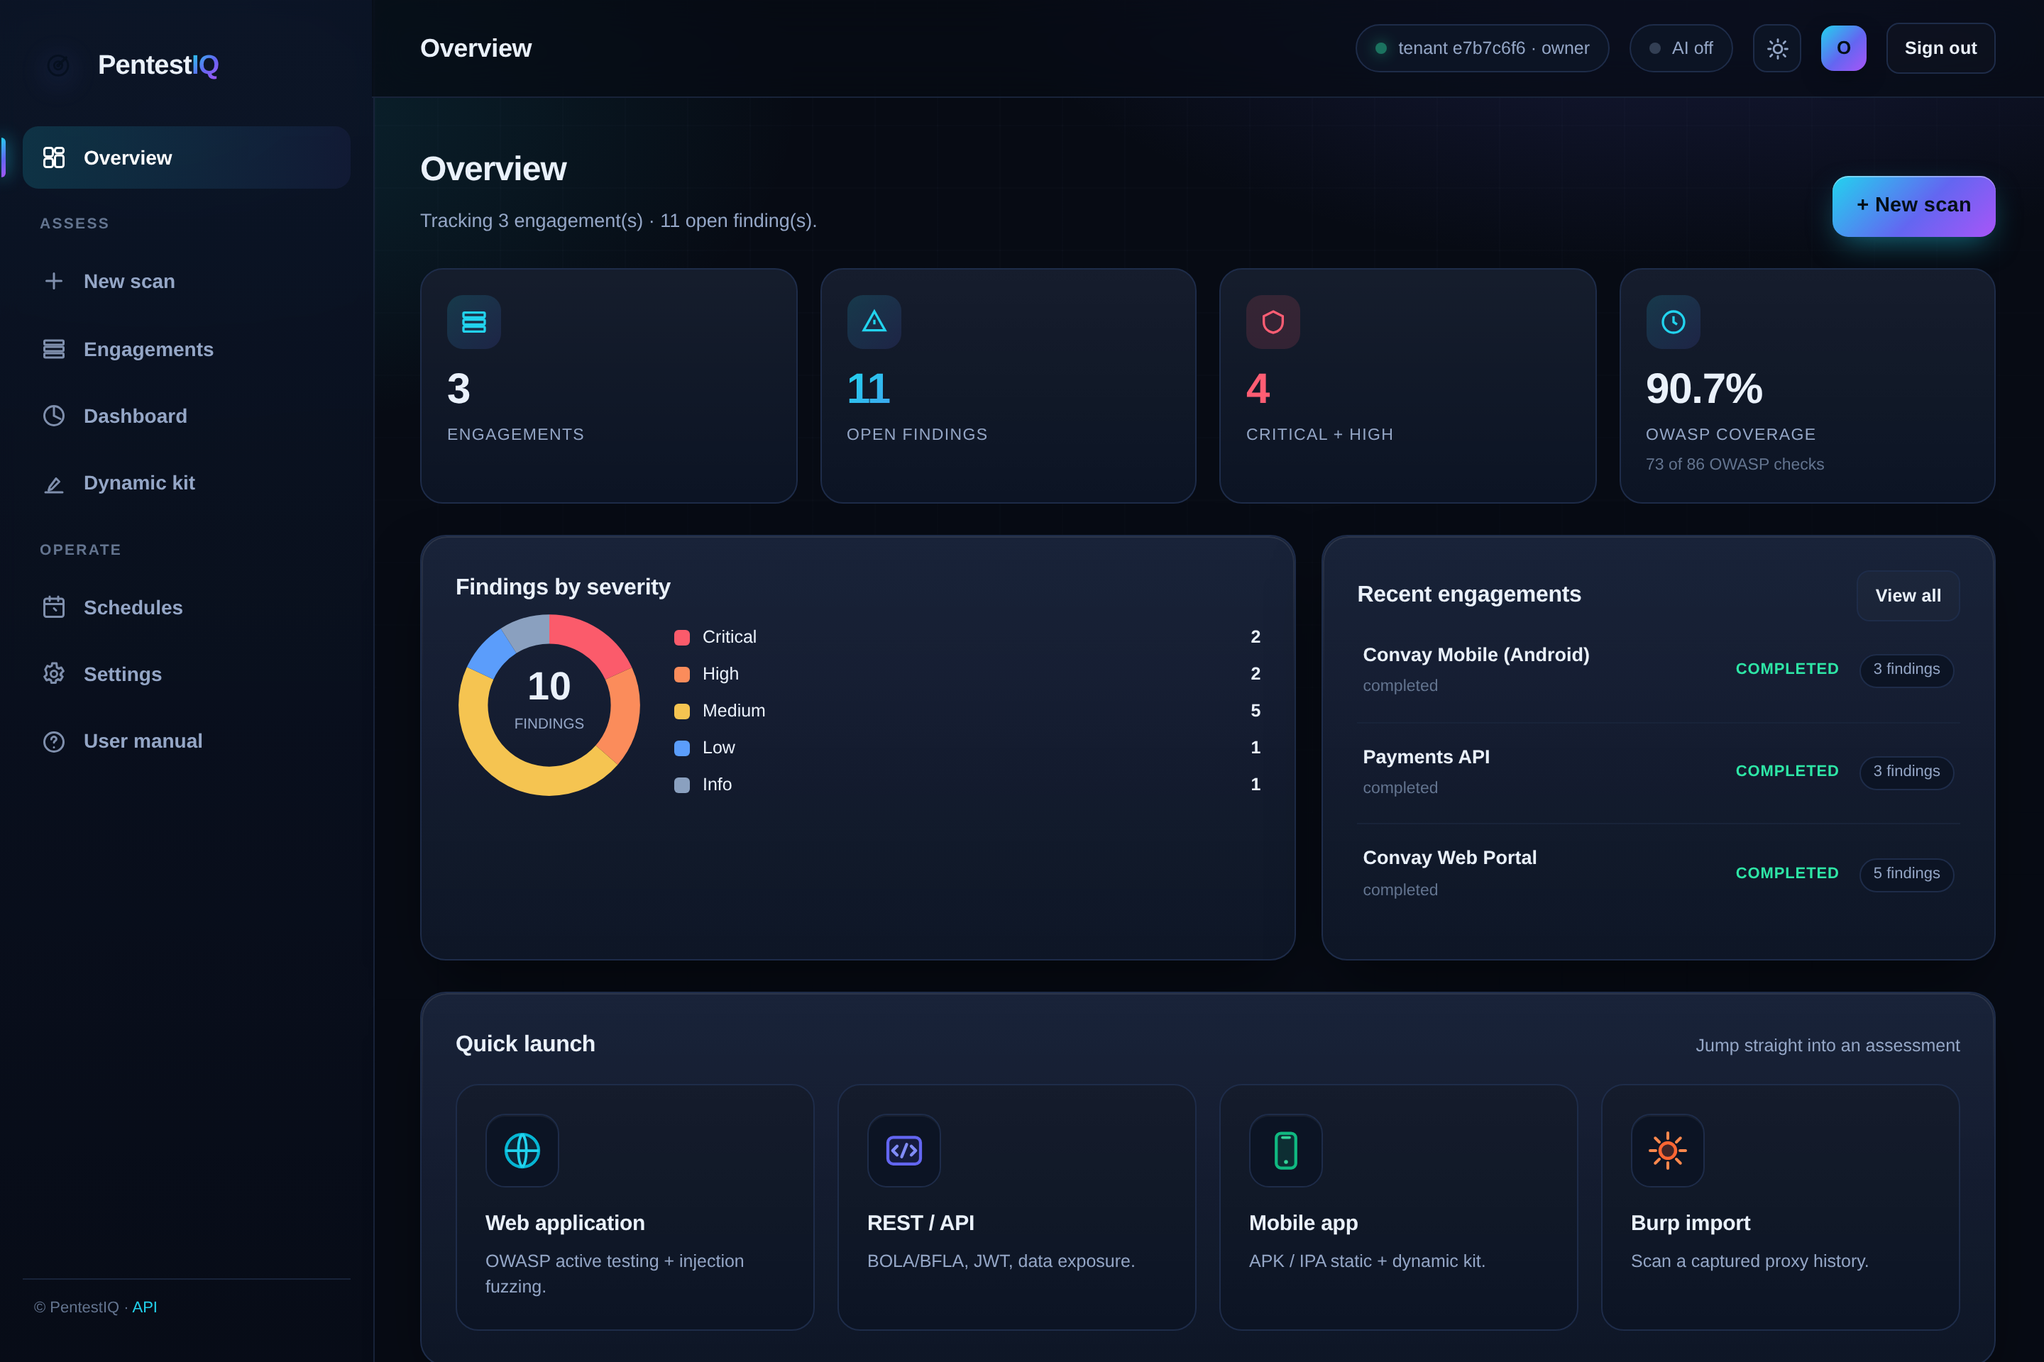
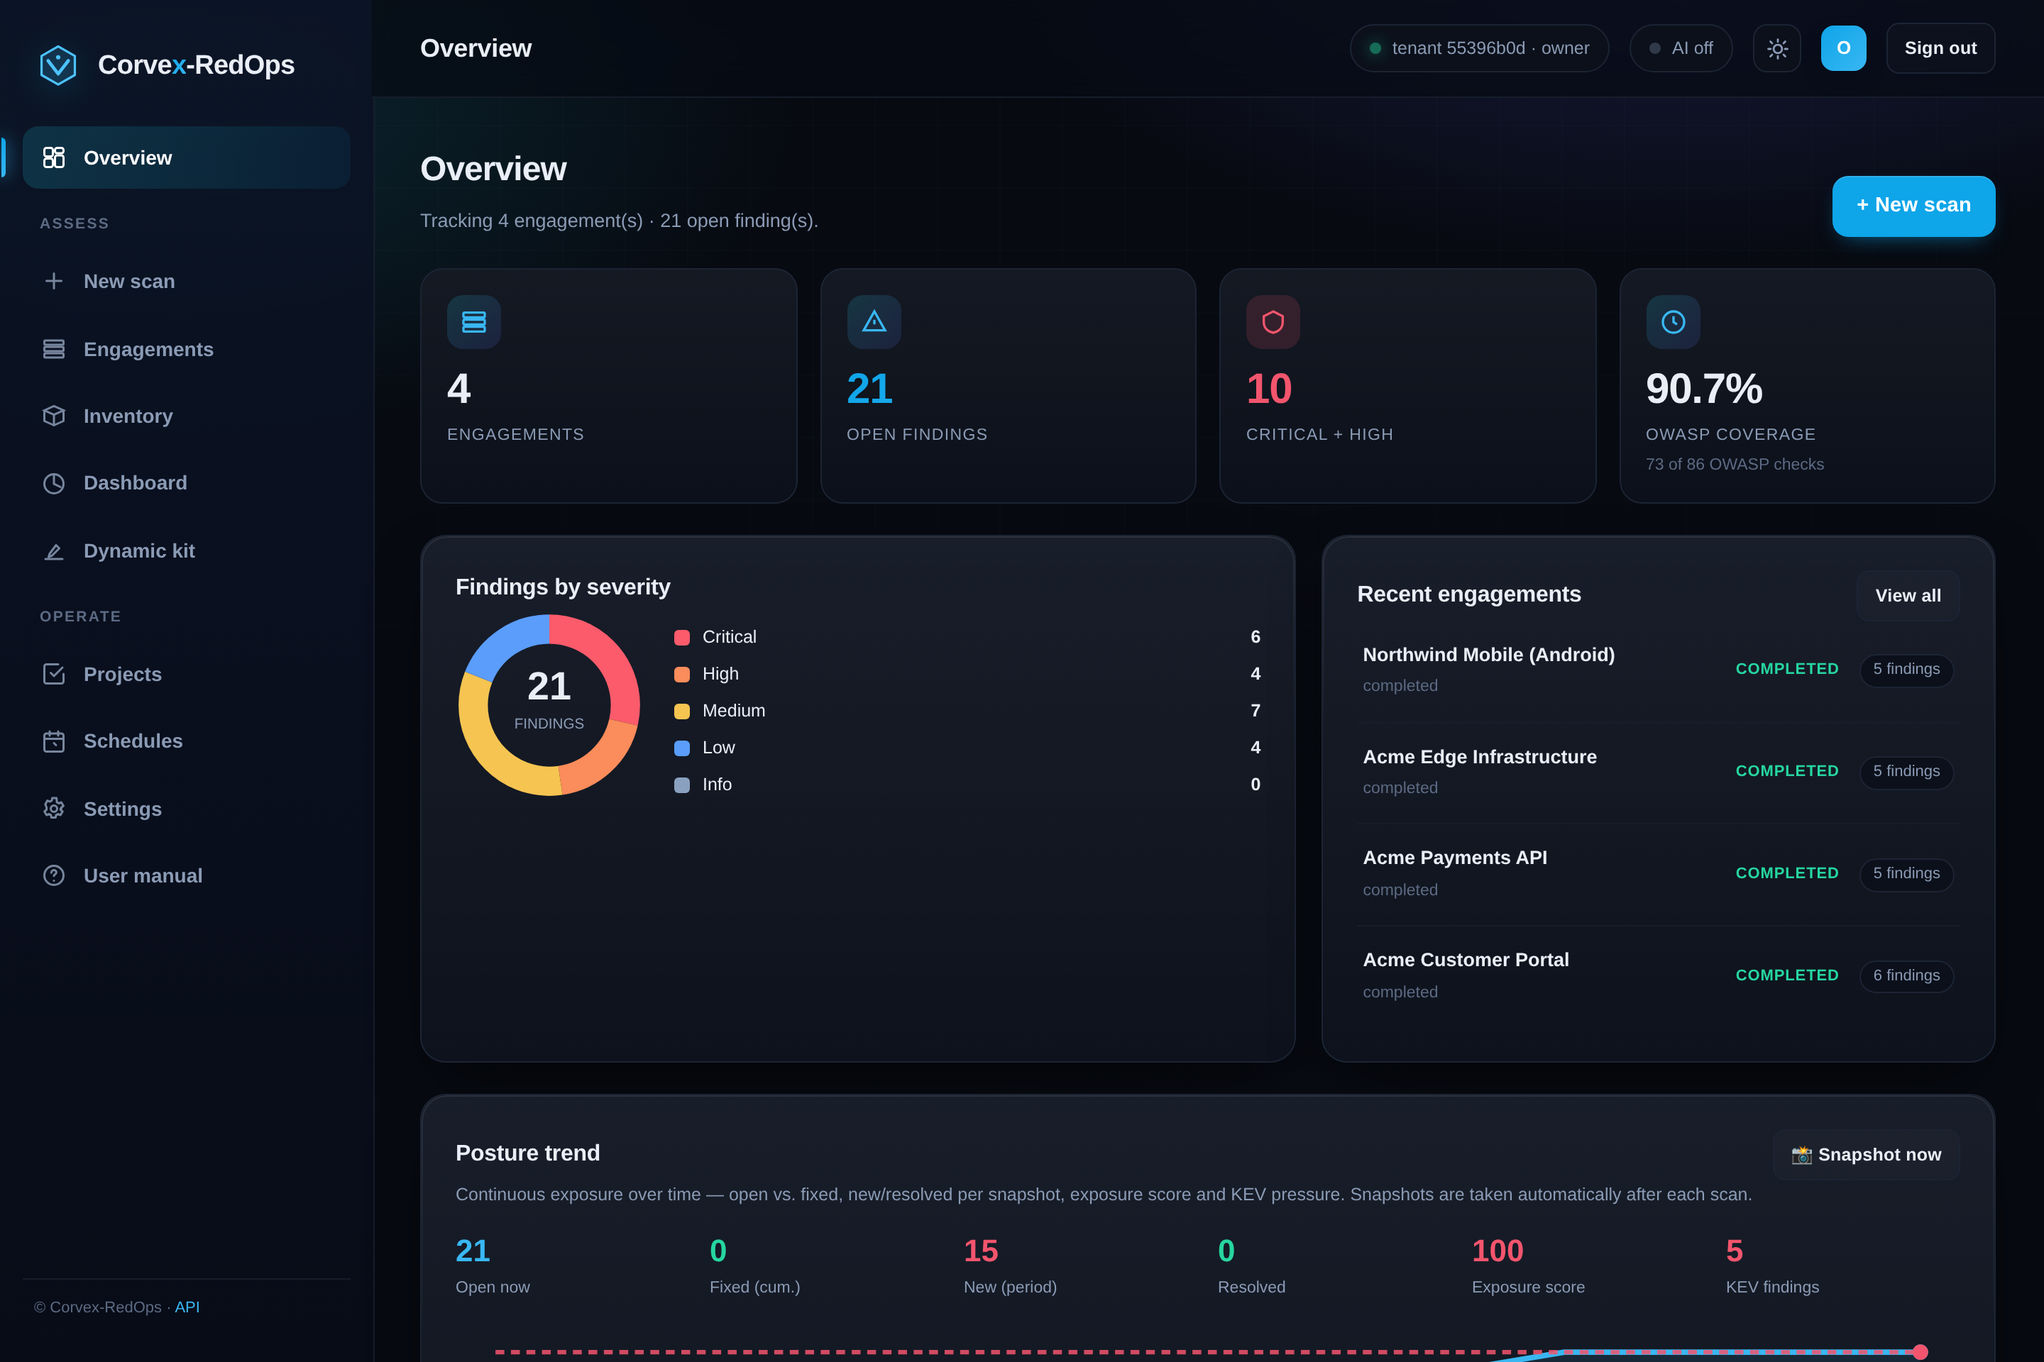
docs(readme): refresh screenshots and content for the current build
- All screenshots regenerated from the current console, seeded with
  fictional demo data only (Acme Corp / Northwind on reserved .example
  domains and TEST-NET-3). The previous images showed the old brand and a
  real client's engagement names.
- New screenshots: inventory, attack paths, posture trend.
- Features and Asset Coverage now cover inventory/EASM, CTEM, SCA/SBOM,
  SAST, secrets, container/IaC, CSPM, scan import, ATT&CK, attack paths,
  BAS-lite, retest, projects, ticketing, client portal and authenticated
  scanning.
- Fix three table-of-contents anchors broken by the rename; CLI examples use
  corvex; badges reflect 480+ tests and 18 scan templates; remove the CI
  badge until a workflow is committed; drop a competitor product name.
- Remove the remaining client name from a Dockerfile comment and a test
  fixture.

Claude-Session: https://claude.ai/code/session_01THvAKJj4x2A7GQA8GnZExA

diff --git a/tests/test_inventory.py b/tests/test_inventory.py
@@ -23,7 +23,7 @@ def test_normalize_url_to_host():
 def test_normalize_kinds():
     assert normalize("10.0.0.5")[1] == AssetKind.IP
     assert normalize("192.168.1.0/24")[1] == AssetKind.CIDR
-    assert normalize("/uploads/x/convay.apk", "mobile")[1] == AssetKind.APP
+    assert normalize("/uploads/x/sample-app.apk", "mobile")[1] == AssetKind.APP
     assert normalize("EXAMPLE.com")[0] == "example.com"
 
 

diff --git a/README.md b/README.md
@@ -4,23 +4,22 @@
 
 ### One platform for Vulnerability Assessment **and** Penetration Testing — every asset, one engine, client-ready in minutes.
 
-*Web · API · Mobile · Desktop · Infrastructure · Network devices · Firewalls · Hardening · WordPress · Active Directory — discovered, actively tested, **safely validated**, threat-prioritized, correlated, and reported. Self-hosted. AI-assisted. Zero licensing cost.*
+*Web · API · Mobile · Desktop · Infrastructure · Network devices · Firewalls · Hardening · WordPress · Active Directory · Code · Containers · Cloud — discovered, actively tested, **safely validated**, threat-prioritized, correlated, and reported. Self-hosted. AI-assisted. Zero licensing cost.*
 
 <br/>
 
-![CI](https://github.com/sajid-infosec/Corvex-RedOps/actions/workflows/ci.yml/badge.svg)
 ![License](https://img.shields.io/badge/license-Apache--2.0-blue.svg)
 ![Python](https://img.shields.io/badge/python-3.10%2B-blue.svg)
-![Tests](https://img.shields.io/badge/tests-450%2B%20passing-brightgreen.svg)
-![Asset modules](https://img.shields.io/badge/asset%20modules-10-8a2be2.svg)
+![Tests](https://img.shields.io/badge/tests-480%2B%20passing-brightgreen.svg)
+![Scan templates](https://img.shields.io/badge/scan%20templates-18-0ea5e9.svg)
 <br/>
 ![Self-hosted](https://img.shields.io/badge/self--hosted-air--gappable-0aa.svg)
-![AI](https://img.shields.io/badge/AI-local%20%26%20private-6366f1.svg)
+![AI](https://img.shields.io/badge/AI-local%20%26%20private-0ea5e9.svg)
 ![Prioritization](https://img.shields.io/badge/prioritization-EPSS%20%2B%20CISA%20KEV-ff6633.svg)
 ![OWASP](https://img.shields.io/badge/OWASP-Top10%20%2F%20API%20%2F%20WSTG%20%2F%20MASVS-brightgreen.svg)
 ![Cost](https://img.shields.io/badge/licensing%20cost-%240-success.svg)
 
-[Why Corvex-RedOps](#-why-corvex) · [vs Commercial Tools](#-how-corvex-compares) · [Features](#-features) · [Screens](#-screens--samples) · [Install](#-installation) · [Quick Start](#-quick-start) · [API](#-rest-api-reference)
+[Why Corvex-RedOps](#-why-corvex-redops) · [vs Commercial Tools](#-how-corvex-redops-compares) · [Features](#-features) · [Screens](#-screens--samples) · [Install](#-installation) · [Quick Start](#-quick-start) · [API](#-rest-api-reference)
 
 <br/>
 
@@ -40,9 +39,9 @@
 
 ## 📖 Table of Contents
 
-- [What is Corvex-RedOps?](#-what-is-corvex)
-- [Why Corvex-RedOps](#-why-corvex)
-- [How Corvex-RedOps compares](#-how-corvex-compares)
+- [What is Corvex-RedOps?](#-what-is-corvex-redops)
+- [Why Corvex-RedOps](#-why-corvex-redops)
+- [How Corvex-RedOps compares](#-how-corvex-redops-compares)
 - [Features](#-features)
 - [Threat-informed prioritization](#-threat-informed-prioritization)
 - [Asset Coverage](#-asset-coverage)
@@ -131,6 +130,31 @@ It ships as **both** a free, self-hostable open-source engine **and** a multi-te
 - **Attack-chain correlation** — links findings that share a host + service into one story.
 - **Optional local-AI layer (self-hosted, zero budget)** — a local open-source model via **a local AI runtime** powers analyst-grade write-ups, **attack-chain correlation**, a **false-positive verifier**, and an in-console **copilot**; plus a **self-learning** confidence model that improves from analyst confirm/dismiss feedback. Fully optional and fail-safe: with no model present, Corvex-RedOps runs exactly as before on its deterministic engine.
 
+### Attack surface & continuous exposure (CTEM)
+- **Asset inventory** — one tenant-wide registry of everything you own (domains, IPs, CIDRs, apps, cloud resources), de-duplicated across every scan and import, with business criticality, owner and tags. Every finding rolls up to its asset.
+- **External discovery (EASM)** — give it a root domain and it expands the external surface from certificate-transparency logs and passive sources, resolves each host, fingerprints the live ones and files them in the inventory.
+- **Exposure scoring** — a per-asset 0–100 score from internet exposure × business criticality × open findings × CISA KEV, so the inventory is ranked by real risk.
+- **Posture trends & alerts** — a snapshot after every scan (open vs. fixed, new vs. resolved, MTTR, exposure, KEV pressure), plus a webhook alert when a new KEV or critical lands on an internet-facing asset.
+
+### Code, containers & cloud
+- **SCA + SBOM** — dependency CVEs from lockfiles and manifests via OSV.dev, with a CycloneDX 1.5 SBOM export.
+- **SAST & secret scanning** — source findings mapped to CWE/OWASP; committed credentials detected and **redacted** so a report never re-exposes them.
+- **Container image & IaC** — image CVEs and Dockerfile / Terraform / Kubernetes misconfigurations; a Kubernetes CIS benchmark.
+- **Cloud posture (CSPM)** — read-only AWS / Azure / GCP posture checks mapped to CIS, PCI-DSS, NIST and SOC 2, using the host's own credentials.
+- **Bring your own scanner** — import vulnerability-scanner XML, template-scanner JSONL, container-scanner JSON, DAST JSON, SARIF or generic JSON; findings are normalized, de-duplicated and prioritized with everything else. SARIF export for code-scanning pipelines.
+
+### Adversary view
+- **MITRE ATT&CK mapping** — every finding tagged with techniques, and an ATT&CK coverage matrix per engagement.
+- **Attack-path graph** — correlated findings chained entry → pivot → impact, with the shortest path to a crown-jewel asset.
+- **Control validation (BAS-lite)** — opt-in, benign technique checks that report whether your defenses actually fire. Refuses to run without explicit authorization.
+
+### Remediation workflow (PTaaS)
+- **Retest & diff** — re-run an engagement and every finding is marked new, persisting or fixed, with MTTR.
+- **Remediation projects** — group findings into owned, dated work that closes itself when its findings are fixed.
+- **Ticketing** — push findings to Jira, ServiceNow, Slack or any webhook.
+- **Client portal** — a tokenized, expiring, read-only link to an engagement's findings and reports. No login, no write access.
+- **Authenticated scanning** — credentialed SSH / WinRM / HTTP-auth checks from an encrypted credential vault (scrypt + Fernet); secrets are never returned by the API.
+
 ### Safety & governance (built in, not bolted on)
 - **Scope enforcement** — every engagement runs against a validated scope; out-of-scope targets are blocked (or warned) by policy.
 - **Safe-mode governor** — non-destructive by default; intrusive/exploit actions require explicit, logged opt-in.
@@ -163,9 +187,22 @@ Ten modules — the complete VAPT surface, driven by Corvex-RedOps's own engines
 | 5 | `mobile` | Mobile apps (Android / iOS) | Static analysis of code, manifest, permissions, secrets & certificates (CWE/MASVS) + on-device dynamic kit |
 | 6 | `desktop` | Desktop binaries (PE / ELF / Mach-O) | Hardcoded secrets/keys, insecure URLs, missing binary hardening (NX/PIE/RELRO/canary/DEP/CFG) |
 | 7 | `network-device` | Routers / switches | Device config audit: telnet, default/RW SNMP, weak passwords, cleartext management |
-| 8 | `firewall` | Firewall rulesets | *nipper-class* ruleset audit: any-any permits, exposed services, shadowed rules |
+| 8 | `firewall` | Firewall rulesets | Configuration-auditor-grade ruleset audit: any-any permits, exposed services, shadowed rules |
 | 9 | `hardening` | System hardening | Host hardening gaps (SSH/kernel/CIS) + hardening-report ingestion |
 | 10 | `active-directory` | Active Directory / domain | Domain security-posture review from a policy export: password policy, Kerberos (AS-REP roasting / Kerberoasting), unconstrained delegation, GPP cpassword, SMBv1/LLMNR, machine-account quota, privileged-group sprawl |
+
+Beyond the ten asset modules, eight more engines cover code, containers, cloud and the external surface:
+
+| Engine | Input | What Corvex-RedOps does |
+|---|---|---|
+| External discovery | A root domain | Certificate-transparency + passive subdomain sources, DNS resolution and live-host fingerprinting, filed into the inventory |
+| Dependencies (SCA) | Lockfile / manifest | Dependency CVEs via OSV.dev + CycloneDX 1.5 SBOM |
+| Source code (SAST) | Source archive | Code findings mapped to CWE / OWASP |
+| Secret scan | Source archive | Committed keys, tokens and private keys — redacted in every output |
+| Container image | Image reference | OS and library CVEs in the image |
+| IaC / config | Dockerfile / Terraform / Kubernetes | Misconfigurations, plus a Kubernetes CIS benchmark |
+| Cloud posture (CSPM) | Cloud account (read-only) | Posture failures mapped to CIS, PCI-DSS, NIST and SOC 2 |
+| Scan import | Third-party scanner output | Normalized, de-duplicated and prioritized with native findings |
 
 Plus **lab automation** — `lab/docker-compose.yml` stands up intentionally-vulnerable targets for testing and demos.
 
@@ -219,7 +256,7 @@ For **blind** vulnerabilities — where the only signal is the target's own serv
 reaching back to infrastructure you control — Corvex-RedOps ships a native,
 self-hostable **OAST collaborator** (the out-of-band interaction service model):
 
-- **`pentestiq oast-server --port 9099 [--dns-port 53 --domain oast.example.com]`**
+- **`corvex oast-server --port 9099 [--dns-port 53 --domain oast.example.com]`**
   stands up a collaborator. HTTP mode records interactions by token from a Host
   sub-domain (`<token>.oast.example.com`, needs wildcard DNS) or a path
   (`http://<ip>:<port>/<token>`, needs only a public IP). The optional **DNS catcher**
@@ -469,18 +506,27 @@ Pipeline: **scope → scan → normalize → validate → prioritize & correlate
 
 ## 🖼 Screens & Samples
 
+> Every screenshot is from the current build, seeded with **fictional demo data** — "Acme Corp" and "Northwind Traders" on RFC 2606 `.example` domains and the RFC 5737 `203.0.113.0/24` test range. No real client, host or finding appears in this repository.
+
 <table>
 <tr>
-<td width="50%"><img src="docs/img/prioritization.png" alt="Threat-informed prioritization"/><br/><sub><b>Threat-informed prioritization</b> — PRP (CVSS × EPSS × CISA KEV), KEV badges, SLA states. The exploit-aware ranking enterprises pay for.</sub></td>
-<td width="50%"><img src="docs/img/dynamic-kit.png" alt="AI-assisted Dynamic kit"/><br/><sub><b>AI-assisted Dynamic kit</b> — platform detection, runtime-protection analysis, tailored instrumentation scripts and a MASVS-aligned test plan.</sub></td>
+<td width="50%"><img src="docs/img/prioritization.png" alt="Engagement dashboard and threat-informed prioritization"/><br/><sub><b>Engagement dashboard</b> — every finding risk-ranked with its OWASP category and ATT&amp;CK techniques, then threat-prioritized: PRP (CVSS × EPSS × CISA KEV), KEV badges and SLA state.</sub></td>
+<td width="50%"><img src="docs/img/inventory.png" alt="Asset inventory and external discovery"/><br/><sub><b>Asset inventory &amp; external discovery</b> — every asset you own, ranked by exposure. A root domain expands into its live external surface in one click.</sub></td>
 </tr>
 <tr>
-<td width="50%"><img src="docs/img/owasp-coverage.png" alt="OWASP coverage"/><br/><sub><b>OWASP coverage</b> — measured against Top 10, API Top 10, WSTG and MASVS/MASTG with per-standard weighting.</sub></td>
-<td width="50%"><img src="docs/img/scan-gallery.png" alt="Scan template gallery"/><br/><sub><b>Scan templates</b> — one click per asset class; Corvex-RedOps maps the target to the right engine automatically.</sub></td>
+<td width="50%"><img src="docs/img/attack-path.png" alt="Attack-path graph"/><br/><sub><b>Attack paths</b> — correlated findings chained entry → pivot → impact, with the shortest path to a crown-jewel asset.</sub></td>
+<td width="50%"><img src="docs/img/owasp-coverage.png" alt="OWASP and MITRE ATT&amp;CK coverage"/><br/><sub><b>OWASP &amp; ATT&amp;CK coverage</b> — Web and API Top 10 hit maps, plus the tactics and techniques the findings map to.</sub></td>
 </tr>
 <tr>
+<td width="50%"><img src="docs/img/posture-trend.png" alt="Posture trend"/><br/><sub><b>Continuous exposure</b> — a posture snapshot after every scan: open vs. fixed, new vs. resolved, exposure score and KEV pressure.</sub></td>
+<td width="50%"><img src="docs/img/scan-gallery.png" alt="Scan templates"/><br/><sub><b>18 scan templates</b> — one click per asset class; Corvex-RedOps maps each target to the right engine automatically.</sub></td>
+</tr>
+<tr>
+<td width="50%"><img src="docs/img/dynamic-kit.png" alt="Dynamic-analysis kit"/><br/><sub><b>Dynamic-analysis kit</b> — runtime-protection detection, instrumentation scripts and a MASVS-aligned test plan for mobile and desktop apps.</sub></td>
 <td width="50%"><img src="docs/img/overview-light.png" alt="Light theme"/><br/><sub><b>Light &amp; dark themes</b> — the whole console, either way.</sub></td>
-<td width="50%" valign="top"><br/><b>Also included</b><br/><br/>• <b>Web console</b> preview: <a href="examples/console-preview.html"><code>examples/console-preview.html</code></a><br/>• <b>Client report</b> sample (HTML / Markdown / <b>PDF</b> / DOCX): <a href="examples/sample-report/"><code>examples/sample-report/</code></a><br/>• Full-technical <b>and</b> executive-summary report types, white-label branded.</td>
+</tr>
+<tr>
+<td colspan="2"><b>Also included</b> — a static console preview in <a href="examples/console-preview.html"><code>examples/console-preview.html</code></a>, and a sample client report (HTML / Markdown / <b>PDF</b> / DOCX) in <a href="examples/sample-report/"><code>examples/sample-report/</code></a>. Full-technical <b>and</b> executive-summary report types, white-label branded.</td>
 </tr>
 </table>
 
@@ -520,7 +566,7 @@ chmod +x pentestiq-linux-x64 && ./pentestiq-linux-x64 serve
 ```bash
 # isolated global CLI (Linux/macOS/Windows)
 pipx install "git+https://github.com/sajid-infosec/Corvex-RedOps.git#egg=pentestiq[all]"
-pentestiq --help
+corvex --help
 ```
 Or into a virtualenv:
 ```bash
@@ -595,7 +641,7 @@ enforcement: warn            # 'block' to hard-enforce scope
 YAML
 
 # 4. run the engagement and generate a client-ready report
-pentestiq run -s myscope.yaml -o out/
+corvex run -s myscope.yaml -o out/
 #  -> out/report.html   (open in a browser)
 #  -> out/report.md
 #  -> out/engagement.json
@@ -764,18 +810,18 @@ Without a prefix, the type is inferred (URLs/hosts → web, IPs/CIDRs → infra,
 |---|---|
 | `corvex version` | Print the version |
 | `corvex modules` | List registered asset modules |
-| `pentestiq run -s <scope> [-c <config>] [-o <dir>]` | Run an engagement; `-o` writes report.html/.md + engagement.json |
+| `corvex run -s <scope> [-c <config>] [-o <dir>]` | Run an engagement; `-o` writes report.html/.md + engagement.json |
 | `corvex serve [--host H] [--port P]` | Start the REST API + web console |
 | `corvex init-tenant --tenant N --username U --password P` | Bootstrap a tenant + owner, print an API key |
 
 ```bash
-pentestiq run --scope engagement.yaml --config pentestiq.yaml --out reports/
+corvex run --scope engagement.yaml --config pentestiq.yaml --out reports/
 corvex serve --host 0.0.0.0 --port 8080
 ```
 
 ### 3. Scanning each asset type
 
-The **same command** runs any asset type — the module is chosen automatically from each target's type. Examples (put the targets in a scope file, then `pentestiq run -s scope.yaml -o out/`):
+The **same command** runs any asset type — the module is chosen automatically from each target's type. Examples (put the targets in a scope file, then `corvex run -s scope.yaml -o out/`):
 
 | Asset | Scope entry | Engine |
 |---|---|---|
@@ -815,7 +861,7 @@ curl -XPOST http://localhost:8080/engagements/upload \
 curl -XPOST http://localhost:8080/engagements/upload \
   -H "Authorization: Bearer $TOKEN" \
   -F "file=@proxy-history.xml" -F "asset_type=burp" \
-  -F "scope_hosts=app.example.com,example.com" -F "allow_active=true" -F "name=web-from-burp"
+  -F "scope_hosts=app.example.com,example.com" -F "allow_active=true" -F "name=web-from-proxy"
 ```
 
 Then run it: `POST /engagements/{id}/run`.
